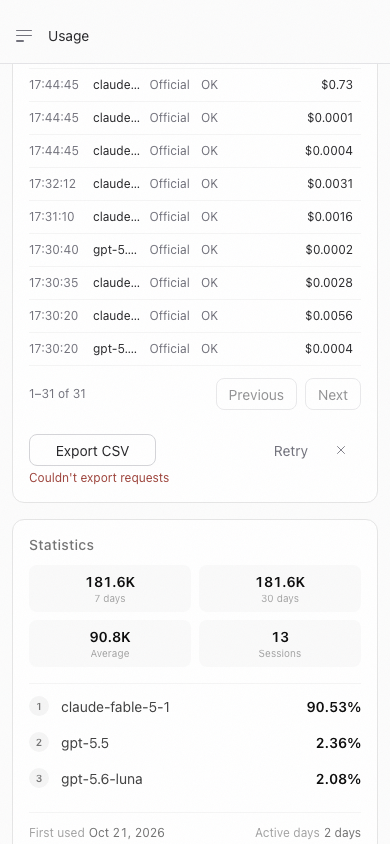
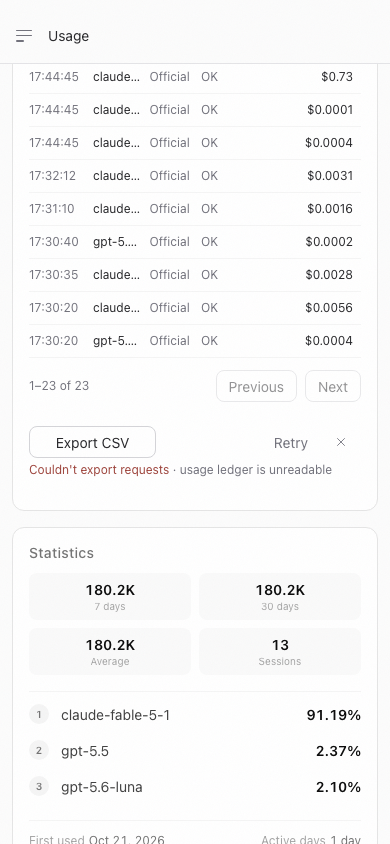
fix(usage): 窄屏导出失败那行也写原因——按钮下常留两行，「导出失败 · 原因」放不下折到第二行、再多截断，空闲、失败、未包含时底栏高度不变；浏览器测试断言 390 宽下原因可见；重拍 390 导出失败截图（10-16-gateway-ledger-usage 工单 11）

diff --git a/packages/app/src/components/usage/usage-requests-export-bar.tsx b/packages/app/src/components/usage/usage-requests-export-bar.tsx
@@ -12,6 +12,9 @@ import type {
 } from "@/hooks/use-usage-requests-export";
 import type { UsageRequestsExportSkip } from "@/usage-stats/requests-export";
 
+/** How many lines a compact layout keeps below the button for the note. */
+const COMPACT_NOTE_LINES = 2;
+
 type Translate = ReturnType<typeof useTranslation>["t"];
 
 /** What sits beside the button after an export: a failure, or the hosts a saved file left out. */
@@ -28,8 +31,9 @@ interface ExportNoteContent {
  * Export CSV at the Requests tab's foot. Its height is the same in every state:
  * the button keeps its width while it spins; on a wide layout a failure or the
  * hosts a saved file left out sit beside it on one line, cut with an ellipsis;
- * on a compact one a line below the button is always reserved and the note
- * reads there in full. The full detail is in a tooltip. A note stays until
+ * on a compact one two lines below the button are always reserved and the
+ * note with its detail wraps there, cut after the second. The full detail is
+ * in a tooltip. A note stays until
  * dismissed or exported again.
  */
 export function UsageRequestsExportBar({ exporter }: { exporter: UsageRequestsExport }) {
@@ -133,9 +137,9 @@ function ExportButton({ exporting, onPress }: { exporting: boolean; onPress: () 
 }
 
 /**
- * The note's words. Inline it is one line with the detail muted after it; in
- * the compact reserved line the sentence reads in full and the detail is in
- * the tooltip, which opens on press there.
+ * The note's words with the detail muted after them: inline on one line, in
+ * the compact reserved lines on at most two. The tooltip holds the whole
+ * detail and opens on press on a phone.
  */
 function NoteMessage({ note, inline }: { note: ExportNoteContent; inline: boolean }) {
   const { detail, testID } = note;
@@ -146,11 +150,11 @@ function NoteMessage({ note, inline }: { note: ExportNoteContent; inline: boolea
           <Text
             variant="caption"
             color={note.color}
-            numberOfLines={inline ? 1 : undefined}
+            numberOfLines={inline ? 1 : COMPACT_NOTE_LINES}
             testID={testID}
           >
             {note.sentence}
-            {inline && detail !== null ? (
+            {detail !== null ? (
               <Text variant="caption" color="foregroundMuted" testID={`${testID}-detail`}>
                 {` · ${detail}`}
               </Text>
@@ -242,8 +246,8 @@ const styles = StyleSheet.create((theme) => ({
     marginLeft: "auto",
   },
   reservedLine: {
-    // 窄屏常留一行：说明出现、消失都不改变卡片高度。
-    minHeight: theme.typeScale.caption.lineHeight,
+    // 窄屏常留两行：说明与原因出现、消失都不改变卡片高度。
+    height: theme.typeScale.caption.lineHeight * COMPACT_NOTE_LINES,
   },
   note: {
     flex: 1,

diff --git a/packages/app/e2e/browser/usage-page-requests.spec.ts b/packages/app/e2e/browser/usage-page-requests.spec.ts
@@ -350,7 +350,7 @@ test.describe("Usage page Requests tab", () => {
     await expect(page.getByTestId("usage-requests-export-retry")).toHaveCount(0);
   });
 
-  test("at phone width the footer keeps its height and the failure reads in the reserved line", async ({
+  test("at phone width the footer keeps its height and the failure and its reason read in the reserved lines", async ({
     page,
   }) => {
     writePagingSession();
@@ -367,8 +367,9 @@ test.describe("Usage page Requests tab", () => {
 
     await page.getByTestId("usage-requests-export").click();
     await expect(page.getByTestId("usage-requests-export-error")).toHaveText(
-      "Couldn't export requests",
+      "Couldn't export requests · usage ledger is unreadable",
     );
+    await expect(page.getByTestId("usage-requests-export-error-detail")).toBeVisible();
     expect((await bar.boundingBox())?.height).toBe(idleHeight);
     await page.getByTestId("usage-requests-export-dismiss").click();
     await expect(page.getByTestId("usage-requests-export-error")).toHaveCount(0);
@@ -404,7 +405,7 @@ test.describe("Usage page Requests tab", () => {
         .poll(() => rangeAfterPickingModel(page, PAGING_MODEL), { timeout: 60_000 })
         .toBe(`1–100 of ${PAGING_CALLS}`);
 
-      // 手机宽度：按钮下常留一行，说明在那一行写全，底栏高度不变。
+      // 手机宽度：按钮下常留两行，说明连同原因写在那里，底栏高度不变。
       await page.setViewportSize({ width: 390, height: 844 });
       await page.getByTestId("usage-details-tab-requests").click();
       await expect
@@ -416,7 +417,9 @@ test.describe("Usage page Requests tab", () => {
       const [, ...rows] = await exportAndRead(page, "usage-requests-export");
       expect(rows).toHaveLength(PAGING_CALLS);
       const partial = page.getByTestId("usage-requests-export-partial");
-      await expect(partial).toHaveText("Not included: Second box (error)");
+      await expect(partial).toHaveText(
+        "Not included: Second box (error) · Second box: usage ledger is unreadable",
+      );
       expect((await bar.boundingBox())?.height).toBe(idleHeight);
       await partial.click();
       await expect(page.getByTestId("usage-requests-export-partial-tooltip")).toContainText(
